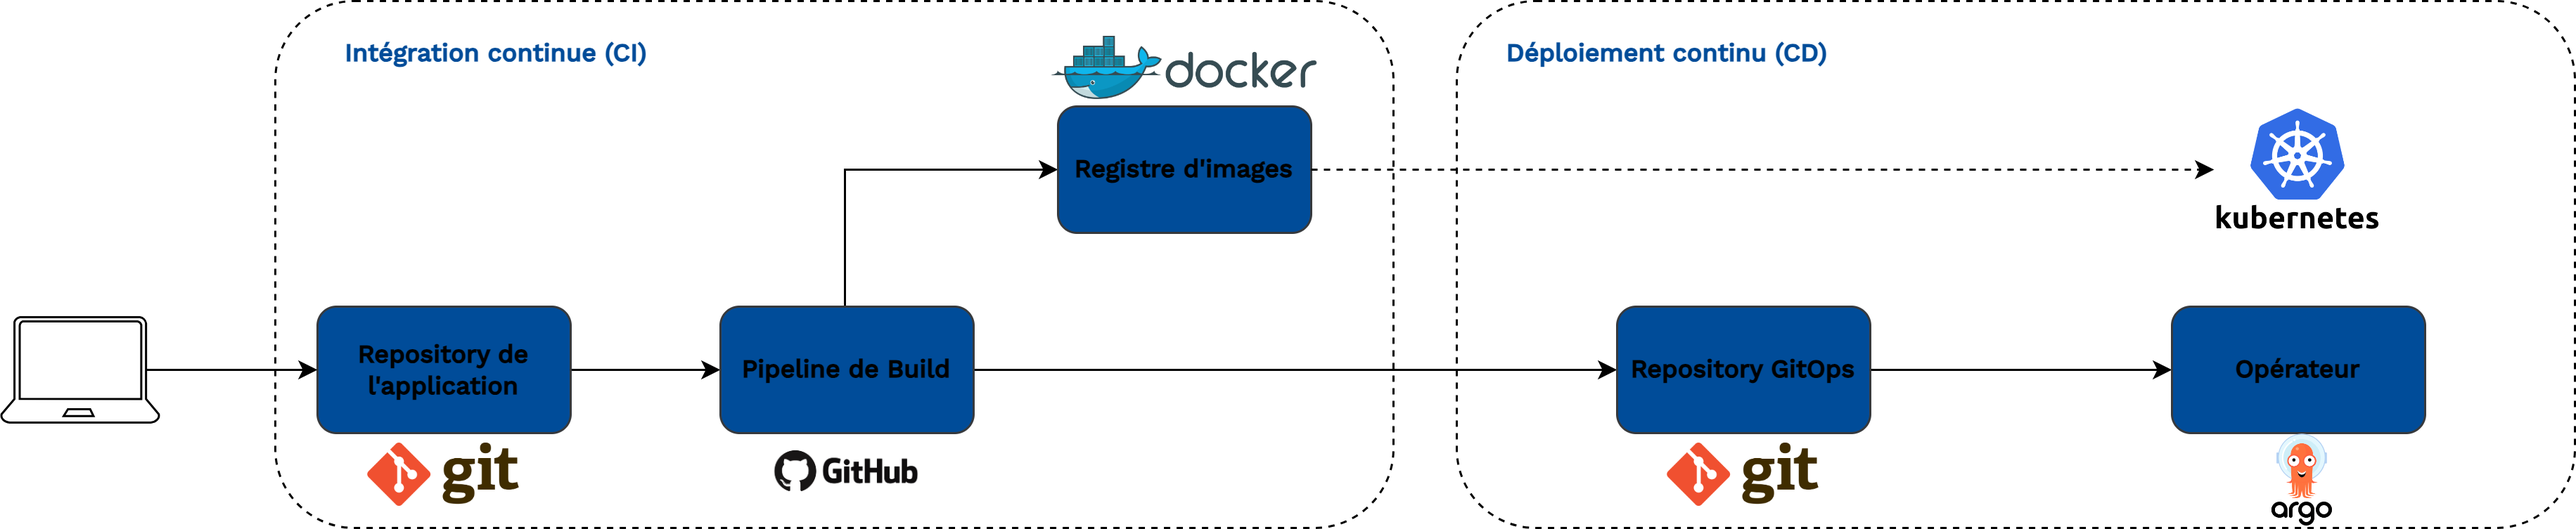
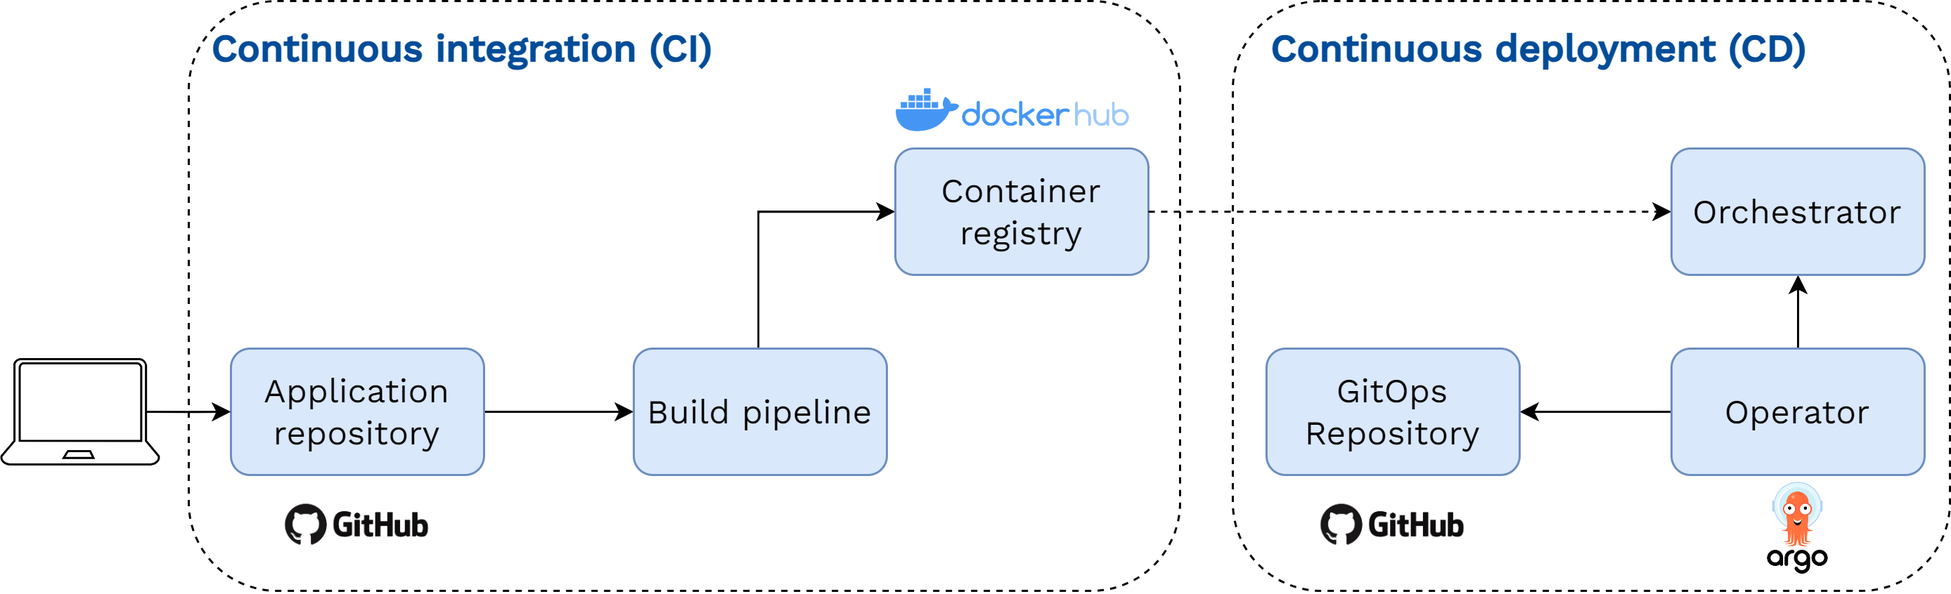
ci cd

diff --git a/sections/4-case-study.tex b/sections/4-case-study.tex
@@ -61,6 +61,7 @@ The fastText model relies on a bag-of-words model to obtain embeddings and a cla
 From the very onset of this project, the target was to go beyond mere experimentation and put the model in production. Besides, the goal with this pilot project was also to build a template for future ML projects at Insee. We thus strove to enforce best development practices from the very beginning of the project: following community standards for code quality, using scripts-based development over notebooks, building a modular package-like structure, etc. However, compared to traditional development projects, machine learning projects have specific features that make it necessary to apply a complementary set of best practices, gathered under the name of MLOps.
 
 \subsubsection{From DevOps to MLOps}
+\label{subsubsec:devops-mlops}
 
 DevOps is a set of practices designed to foster collaboration between development (Dev) and operations (Ops) teams. The fundamental idea is to integrate the full lifecycle of a project in a single automated continuum. An important tool to achieve this continuity is CI/CD pipelines. With continuous integration (CI), each commit of new source code will trigger a pipeline of standardized operations, such as building the application, testing it and making it available as a release. Then, continuous deployment (CD) consists in tools to automate the deployment of the new code and limit manual intervention, while ensuring proper monitoring to guarantee process stability and security. This approach promotes a more rapid, continual release of necessary feature changes or additions. Furthermore, by encouraging collaboration between teams, DevOps also promotes a quicker cycle of innovation, allowing teams to address issues as they arise and incorporate feedback effectively throughout the project lifecycle.
 
@@ -118,41 +119,36 @@ In summary, the training stage was made efficient and reproducible thanks to the
 
 \subsubsection{Deploying a model}
 
-Once you have optimized, evaluated, and selected your best-performing model, it's crucial to make it available to other users. Unfortunately, this aspect is often overlooked by data scientists. A trivial way to share the model would be to provide your code and all necessary information to a third party to retrain your model on their own. Obviously, this approach is not optimal as it assumes that all users have the resources, infrastructure, and knowledge required for training. The goal is therefore to make your model available in a simple and efficient manner. The use of the SSP Cloud platform greatly simplifies this process and has also allowed us, as data scientists, to take control of our model until its deployment without relying on the IT team. Indeed, on the platform, it is possible to open services with Kubernetes administrator rights, enabling the deployment of applications. For making our ML model available, we opted to use a REST API. This seems to be the most suitable method in the vast majority of cases, as it meets several criteria:
+Once candidate models have been optimized, evaluated and a best-performing model has been selected, the next step is to make it available to the application end users. Simply providing the trained model as an artifact or even just the code to train the model is not a convenient way to serve it, as it assumes that users have the resources, infrastructure, and knowledge required for training it under the same conditions. The goal is therefore to make the model available in a simple and interoperable manner, in the sense that it should be possible to query it with various programming languages. Furthermore, it should be possible for other applications to query the model in a programmatic way. 
 
-\begin{itemize}
-    \item \textbf{Simplicity}: REST APIs provide an entry point that can hide the underlying complexity of the model, making its availability easier.
-    \item \textbf{Standardization}: One of the main advantages of REST APIs is that they are based on the HTTP standard. This means they are language-agnostic, and requests can be made in XML, JSON, HTML, etc.
-    \item \textbf{Modularity}: The client and server are independent. In other words, data storage, user interface, or model management are completely separated from the server.
-    \item \textbf{Scalability}: The separation between the server and client allows REST APIs to be highly flexible and facilitate scalability. They can adapt to the load of concurrent requests.
-\end{itemize}
+Against that background, we opted to serve the model through a REST API. This technology has become a standard way to serve ML models as they offer several benefits. First, they fit very well a cloud-oriented environment: similarly to the other components of our stack, it makes it possible to query the model using standard HTTP requests, which contributes to the modularity of the system. It also means that they are interoperable: as they rely on standards technologies for queries (HTTP requests) and responses (generally, a JSON-formatted string), they are mostly agnostic to the programming language used to request them. Finally, they offer great scalability because of their stateless design. As each request must contain all the information needed to understand and process the request, REST APIs can easily be duplicated on different machines to balance a challenging load — a process known as horizontal scaling.
 
-To develop our API, we used the popular Python library FastAPI, which is relatively easy to use and comes with exhaustive \href{https://fastapi.tiangolo.com/}{documentation}. The idea is to encapsulate all the API code and required software dependencies into a Docker image so that it can be deployed in a container on the Kubernetes cluster. Upon startup, the API will automatically retrieve the correct model from the MLflow model registry, which is located in a MinIO bucket. Using a MLflow model allows automatic integration of preprocessing before each prediction, regardless of the model framework used, greatly simplifying inference and ensuring streamlined code in the API. The model deployment process is summarized in Figure \ref{fig:api-datalab}.
+To develop the API that serves the model, we used FastAPI\footnote{\url{https://fastapi.tiangolo.com}}, a fast and well-documented web framework for building APIs with Python. The API code and required software dependencies are encapsulated into a Docker image so that it can be deployed as a container on the Kubernetes cluster. An important benefit of using Kubernetes is the ability to scale the API — through the number of API pods effectively deployed — to the demand and provide automatic load-balancing. Upon startup, the API automatically retrieves the correct model from the MLflow model registry, which acts as a proxy from the actual artifact of the production model, stored on MinIO. Using a MLflow model enables to integrate the pre-processing step before each prediction to the API, greatly simplifying inference regardless of the ML framework used. This deployment process is summarized in Figure \ref{fig:api-datalab}.
 
 \begin{figure}[htbp]
     \centering
     \makebox[\textwidth][c]{\includegraphics[width=0.75\textwidth]{sections/img/api-datalab.png}}
-    \caption{Deploy a ML model via an API}
+    \caption{A cloud-native approach to serve a ML Model using a REST API}
     \label{fig:api-datalab}
 \end{figure}
 
+\subsubsection{Building an integrated pipeline}
 
-At this stage, we are already adhering to several MLOps principles in terms of reproducibility through containers and model versioning with MLflow. However, when it comes to automation, there is room for further improvement. Imagine you have deployed an API, and in the meantime, you have developed a new feature for it. For this new feature to be effectively integrated into your API, it is necessary to redeploy the new version of your API and remove the currently deployed one. The idea is to automate the creation of a new Docker image as soon as your API code is updated, and a container based on this latest image automatically deploys the new version of your API. To achieve this on the SSP Cloud, there is the ArgoCD service - CD for Continuous Deployment. ArgoCD continuously scans your Github repository, and as soon as it detects a change in the API code or in the version of the model to be used, it automatically deploys your API by communicating with the Kubernetes cluster. In reality, this process is a bit more nuanced. ArgoCD does not scan your entire repository but only a few configuration files that indicate the versions of the Docker image to use and the model to deploy. To create a new version of the Docker image as soon as the API code is modified, we use the GitHub Actions feature of Github\footnote{An equivalent feature also exists under Gitlab, called Gitlab CI.}. This deployment automation pipeline is depicted in Figure \ref{fig:ci-cd}.
+The architecture we built at this stage already reflects some important principles of MLOps. The use of containerization to deploy the API as well as the use of MLFlow to track the experiments while developing the model ensures reproducibility of the predictions. Using the central model registry provided by MLFlow facilitates the management of the lifecycle of the models in a collaborative way. Furthermore, the modularity of our architecture leaves room for further improvement as modular components can be easily added or modified without breaking the structure of the application as a whole. As we shall see in subsequent sections, this property was essential in building the application iteratively, enabling to add a monitoring layer (Section~\ref{subsubsec:monitoring}) and an annotation component (Section~\ref{subsubsec:annotation}) to promote continuous improvement of the model.
+
+However, the ability to refine the base architecture iteratively also requires more continuity in the process. At this stage, the deployment process involves several manual operations. For instance, adding a new feature to the API would require to build a new image, tag it, update the Kubernetes manifests used to deploy the API and enforce them on the cluster to replace the existing one with minimum downtime. Similarly, a change of the model served through the API would require a very simple modification of the code but several manual steps to update the version on the cluster. As a result, data scientists are not fully autonomous when it comes to prototyping and testing updated versions of the model or the API, which limit the potential for continuous improvement.
+
+In order to automate this process, we built a CI/CD pipeline — a concept already presented in Section~\ref{subsubsec:devops-mlops}) — integrating these various steps. Figure \ref{fig:ci-cd} illustrates our specific implementation of a CI/CD pipeline. Any change in the code of the API repository triggers a CI build process (implemented with GitHub Actions) of the associated docker image, which is then released on a public container registry (DockerHub). This image can then be fetched and deployed by the container orchestrator (Kubernetes), by specifying and applying manually new manifests to update the Kubernetes resources of the API. However, the downside of this approach is that it limits reproducibility of the deployment, since each resource is handled independently by the orchestrator, so that the lifecycle of the API deployment as a whole is not managed. To overcome this shortcoming, we integrate the deployment part in a CD pipeline based on the GitOps approach: the resources manifest of the API are stored on a Git repository. The state of this "GitOps" repository is monitored by a Kubernetes operator (ArgoCD), so that any change in the application manifests is directly propagated to the deployment on the cluster. In this integrated pipeline, the only action needed for the data scientist to trigger an update of the API is to change the tag of the API image indicating the version to be deployed.
 
 \begin{figure}[htbp]
     \centering
-    \makebox[\textwidth][c]{\includegraphics[width=\textwidth]{sections/img/ci-cd.png}}
-    \caption{Implementation of CI/CD with Kubernetes}
+    \includegraphics[width=\textwidth]{sections/img/ci-cd.png}
+    \caption{Our implementation of a CI/CD pipeline}
     \label{fig:ci-cd}
 \end{figure}
 
-The autonomy of the data scientist up to the deployment of the model is particularly effective in terms of organization. Indeed, thanks to the deployment of an API or the transmission of a Docker image, transitioning the model to production is facilitated. On the IT side, querying an API is a common task, and no knowledge of ML is required to perform it.
-
-Our MLOps architecture on the SSP Cloud platform was developed incrementally, capitalizing on the platform's modularity. Following the initial deployment of our model, we sought to introduce various enhancements to our architecture, each of which could be integrated independently. This allowed us considerable freedom in selecting our technological solutions. As a result, questions about monitoring the model in its production environment emerged in a subsequent phase.
-
 \subsubsection{Monitoring a model in production}
-
-% \subsubsection{The importance monitoring}
+\label{subsubsec:monitoring}
 
 Once the modeling phase has been completed, along with training, optimization, and deployment of the model to be accessible to users, it's crucial to understand that the data scientist's responsibilities extend further. Traditionally, the responsibility of the data scientist is often limited to selecting the model to deploy, with the deployment task then delegated to data engineers. However, once in production, the model has not yet reached the end of its lifecycle, and it must be continuously monitored to prevent undesirable performance degradation.
 
@@ -172,9 +168,6 @@ The concept of monitoring can take on different meanings depending on the contex
     \item \textbf{Data drift}: Data drift occurs when the data used during inference in production exhibits significant differences compared to the data used during training, that is,  $\mathds{P}_{train}(X) \neq \mathds{P}_{inference}(X)$.
     \item \textbf{Concept drift}: Concept drift is evoked when a change in the statistical relationship between the features ($X$) and the target variable ($Y$) is observed over time, that is, $\mathds{P}_{train}(Y|X) \neq \mathds{P}_{inference}(Y|X)$ and $\mathds{P}_{train}(X) = \mathds{P}_{inference}(X)$.
 \end{itemize}
-
-
-% \subsubsection{What do we monitor ?}
 
 In our use case, our objective is to achieve the highest number of correctly classified textual description while minimizing the number of textual description requiring manual intervention. Thus, our goal is to distinguish correct predictions from incorrect ones without prior access to ground truth. To accomplish this, we have developed a confidence index, which represents the difference between the two highest scores. Therefore, for a given textual description, if the confidence index exceeds a determined threshold, the textual description is automatically coded. Otherwise, the textual description is manually coded by an Insee's agent who has access to the five most probable codes according to the model to optimize manual intervention. Defining the threshold for automatic coding of textual descriptions is crucial in production deployment. It involves making trade-offs between achieving a high automatic coding rate and preserving model performance, and vice versa.
 
@@ -207,7 +200,8 @@ In summary, our monitoring pipeline consists of:
 \end{figure}
 
 
-\subsection{Promoting continuous improvement}
+\subsubsection{Promoting continuous improvement of the model}
+\label{subsubsec:annotation}
 
 In all ML projects, it is well-established that data is key, and in supervised ML problems, annotations play a crucial role in model performance. At the project's onset, time constraints compelled us to swiftly achieve results, precluding the luxury of conducting a comprehensive annotation campaign. Consequently, we never had access to a truly annotated gold-standard test sample on which we could rely 100\%. To evaluate the performance of our model, we relied on a subset of our training dataset (test/train split), knowing that its labeling was not perfect. After several months of model deployment, it became imperative to build such a gold-standard test sample. Firstly, this sample allows us to have an unbiased view of the model's performance in production on real data, particularly on data that has been automatically coded. Additionally, this sample enabled us to identify and correct inconsistencies present in our initial training dataset. 
 
